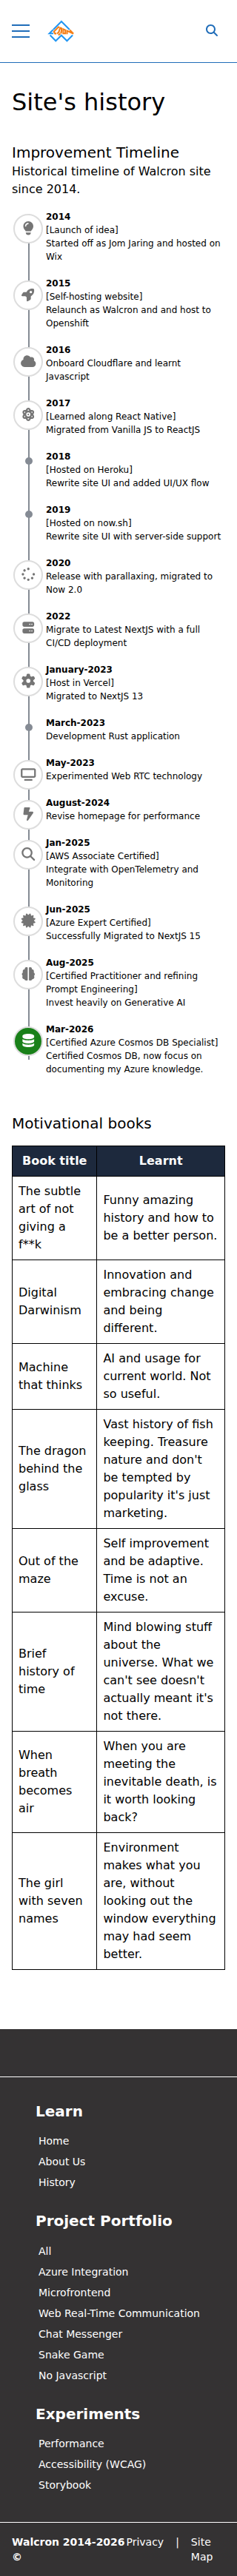
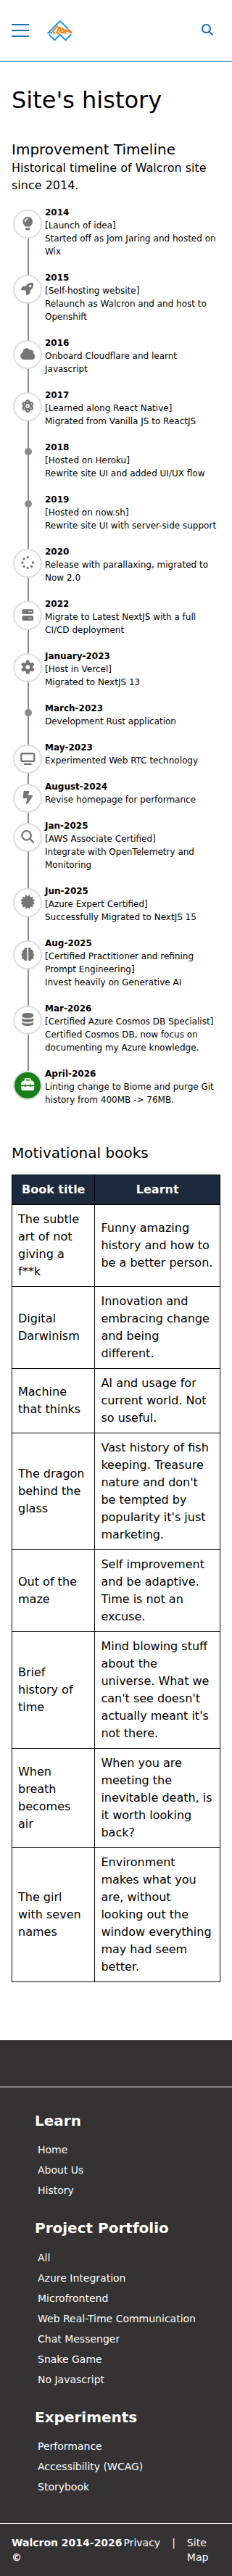
Merge pull request #916 from yoonghan/develop
Update history

Pull request: Update history

Changed region(s): [[0.0, 0.0, 1.0, 0.9928], [0.8125, 0.9618, 0.875, 1.0], [0.0625, 0.9618, 0.0938, 1.0]]

diff --git a/src/app/history/config.ts b/src/app/history/config.ts
@@ -12,6 +12,7 @@ import {
 	faServer,
 	faSpinner,
 	faTelevision,
+	faToolbox,
 } from "@fortawesome/free-solid-svg-icons"
 import type { IEvent } from "@/components/Timeline"
 
@@ -153,5 +154,11 @@ export const siteHistory: IEvent[] = [
 		special: "Certified Azure Cosmos DB Specialist",
 		desc: "Certified Cosmos DB, now focus on documenting my Azure knowledge.",
 		faIcon: faDatabase,
+	},
+	{
+		id: "Apr-2026",
+		date: "April-2026",
+		desc: "Switch to Biome, purge Git history 400MB → 76MB, fixed .env secret leaks",
+		faIcon: faToolbox,
 	},
 ]